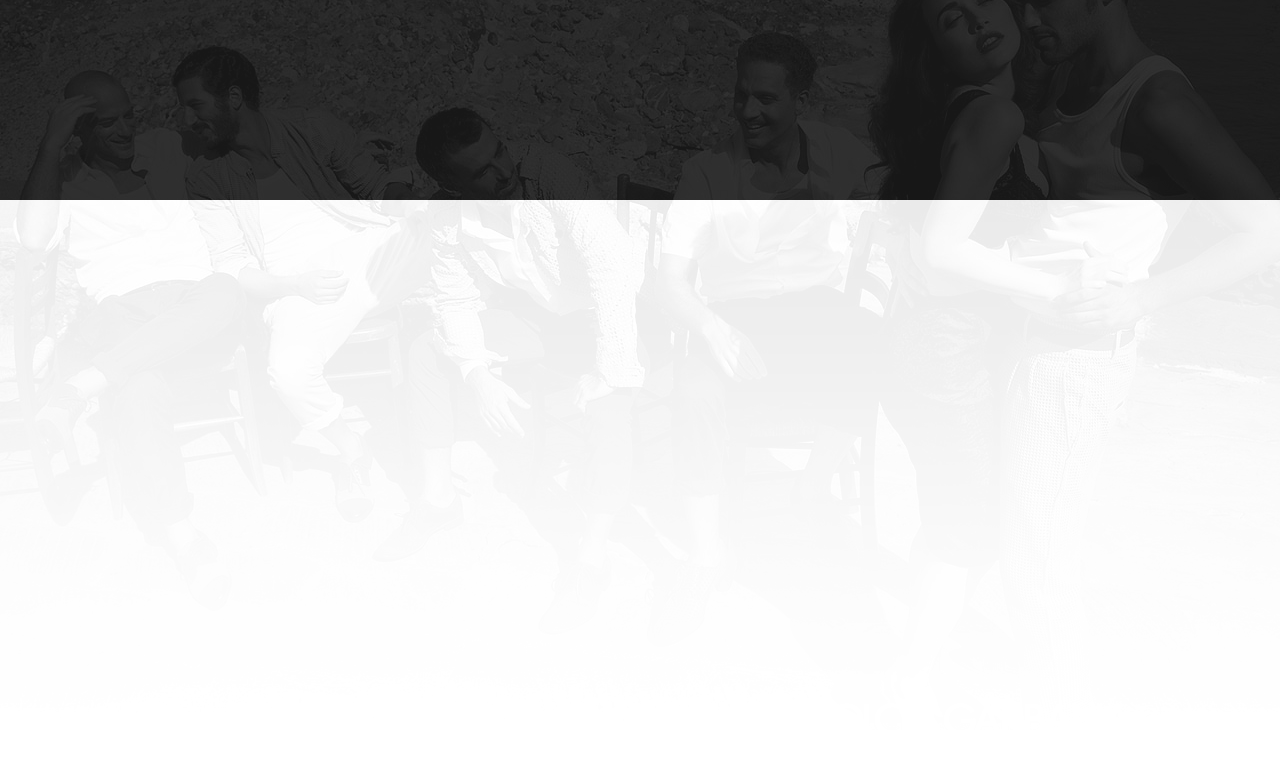
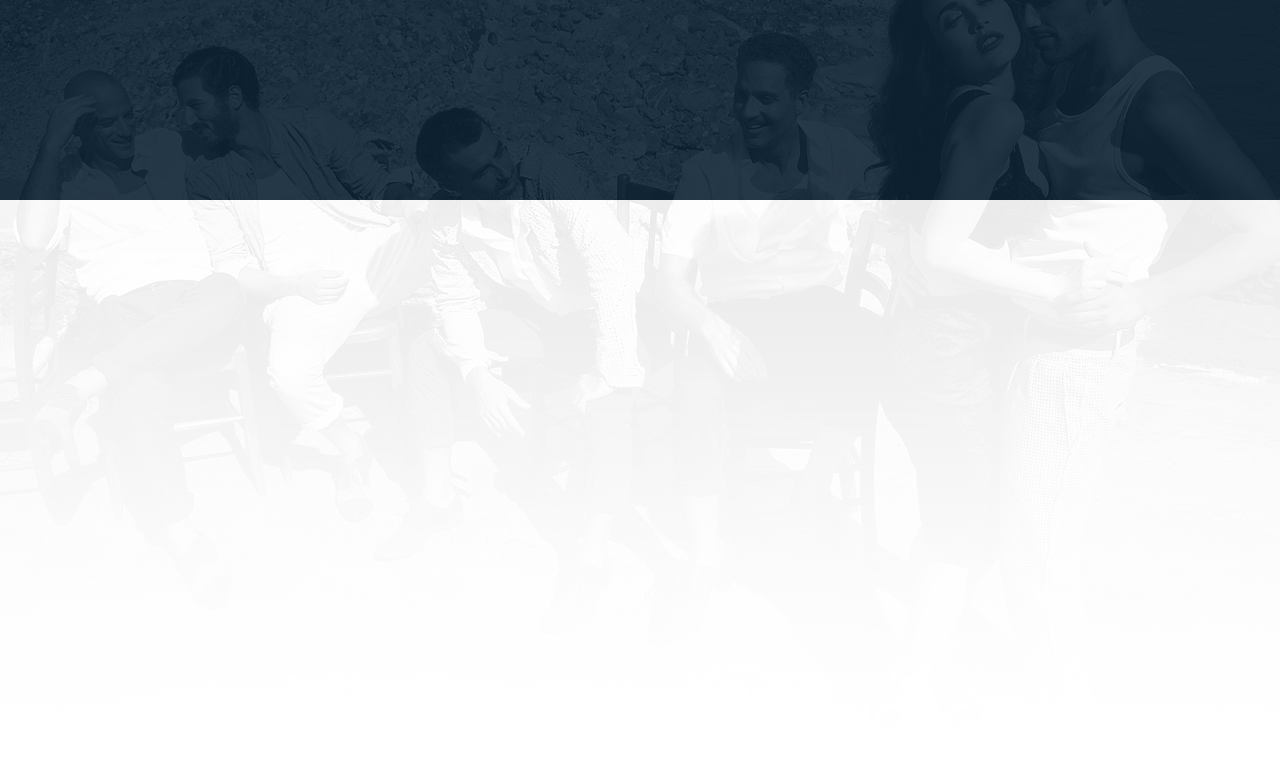
More colour changes

diff --git a/wp-content/themes/dante-child/style.css b/wp-content/themes/dante-child/style.css
@@ -81,7 +81,7 @@ h3 {
 	text-align: center; font-family: proxregular, "Helvetica Neue", Arial, Helvetica, Geneva, sans-serif ; letter-spacing: 1px !important; font-size: 14px !important; line-height: 22px !important; text-transform: uppercase;
 }
 
-p{ font-size:16px; letter-spacing:1px; margin-bottom:16px;text-align:center;}
+p{ font-size:16px; letter-spacing:1px; margin-bottom:16px;}
 
 
 .no-borders { border: none !important;}
@@ -277,7 +277,7 @@ color: #b08536 !important;
 .carousel-wrap > a:hover, #mobile-menu ul li:hover > a{
 	color: #b08536 !important;
 }
-#mobile-menu-wrap{ background-color:#111 !important;}
+#mobile-menu-wrap{ background-color:#0e2334 !important;}
 
 a.sf-button{ border-radius: 0 !important; padding:18px 40px 16px 40px; border:1px solid #fff !important; min-width:250px; margin-top:50px;}
 a.sf-button:hover{ background-color: #fff !important;}
@@ -288,12 +288,12 @@ a.sf-button:hover span{ color: #b08536 !important;transition: all 0.2s ease-in-o
 a.sf-button span{ font-size:16pt !important; letter-spacing:3px;}
 a.sf-button.transparent{  border:1px solid #666 !important;}
 a.sf-button.transparent:hover{ background-color: transparent !important;}
-.fa-facebook.sf-icon.sf-icon-medium { font-size:34px !important; width: auto;height: auto; color:#000; }
-.fa-twitter.sf-icon.sf-icon-medium { font-size:34px !important; width: auto;height: auto;  color:#000;}
-.fa-instagram.sf-icon.sf-icon-medium { font-size:34px !important; width: auto;height: auto; color:#000; }
-.fa-pinterest.sf-icon.sf-icon-medium { font-size:34px !important; width: auto;height: auto;  color:#000;}
+.fa-facebook.sf-icon.sf-icon-medium { font-size:34px !important; width: auto;height: auto; color:#0e2334; }
+.fa-twitter.sf-icon.sf-icon-medium { font-size:34px !important; width: auto;height: auto;  color:#0e2334;}
+.fa-instagram.sf-icon.sf-icon-medium { font-size:34px !important; width: auto;height: auto; color:#0e2334; }
+.fa-pinterest.sf-icon.sf-icon-medium { font-size:34px !important; width: auto;height: auto;  color:#0e2334;}
 .sf-icon-cont {
-border-color: #999 !important;
+border-color: #0e2334 !important;
 border-radius: 0 !important;
 padding: 5px !important;
 }
@@ -494,13 +494,19 @@ a.sf-button.gold {
 background-color: #b08536 !important; border: none !important;
 }
 a.sf-button.gold:hover {
-background-color: #000 !important; 
+background-color: #fff !important; 
+}
+
+a.sf-button.blue {
+background-color: #0e2334 !important; border: none !important; color: #fff !important; margin:10px 30px 10px 30px;
+}
+a.sf-button.blue:hover {
+background-color: #fff !important; 
 }
 
 .area_grey{background-color: #f6f7f6;border-top: 1px solid #d1d1d1;border-bottom: 1px solid #d1d1d1;}
-.area_gold{ background-color:rgba(242, 133, 0, 0.60); padding-top:25px; padding-bottom:25px; border-top:1px solid #e1a35a !important; margin-bottom:0 !important; margin-top:0 !important; border-bottom:none;}
-.area_gold a.sf-button{ border-color: #222 !important; margin:10px 30px 10px 30px; color:#fff;}
-.area_gold a.sf-button:hover{ border-color: #222 !important; background-color:#222 !important; }
+.area_gold{ background-color:rgba(163, 106, 0, 0.8); padding-top:25px; padding-bottom:25px; border-top:1px solid #e1a35a !important; margin-bottom:0 !important; margin-top:0 !important; border-bottom:none;}
+
 img.line{ margin-top:20px;}
 
 h2 {
@@ -688,7 +694,7 @@ background:url(images/mobile_nav_icon.png) no-repeat 0 0;
 background:url(images/mobile_nav_icon.png) no-repeat -42px 0;
 }
 .home_page #copyright{  border-top: none !important;}
-.home_page .page_bottom_bg{position:absolute; bottom:0; background: url(images/mainpage_bottom_bg_gradient.gif) repeat-x; background-position:bottom; height: 806px; width:100%;}
+.home_page .page_bottom_bg{ display:none; position:absolute; bottom:0; background: url(images/mainpage_bottom_bg_gradient.gif) repeat-x; background-position:bottom; height: 806px; width:100%;}
 .home_page .key-info {
 width: 90%;
 max-width: 450px;
@@ -719,7 +725,9 @@ color:#fff !important;
 	max-width:700px;
 	margin: auto;
 }
-
+.home_page .area3{
+	margin-top: -160px;
+}
 
 
 /* --------------------------------------------
@@ -729,6 +737,10 @@ color:#fff !important;
 .pricing_page .inner-page-wrap {
 margin-top: 0px;}
 
+.pricing_page  .area3 p{max-width: 550px; margin: auto; }
+.pricing_page  .area5 p{max-width: 550px; margin: auto; }
+.pricing_page  .area7 { margin-bottom: 0 !important;}
+.pricing_page  .area7 p{max-width: 550px; margin: auto;}
 
 
 /* --------------------------------------------
@@ -743,7 +755,9 @@ margin-top: 0px;}
 .how_it_works_page  .area2_right p img.line{ margin-top:30px ; }
 .how_it_works_page  .area4_right p img.line{ margin-top:30px ; }
 .how_it_works_page .area5{ padding-top:100px !important; padding-bottom:100px !important; }
+.how_it_works_page .area5 .spb_content_wrapper{ max-width: 500px;}
 .how_it_works_page .area6{ padding-top:50px !important; padding-bottom:50px !important; }
+.how_it_works_page .area6 p{max-width: 550px; margin: auto; }
 	
 .how_it_works_page .inner-page-wrap{
 	margin-top: 0 !important; margin-bottom:0 !important;}
@@ -754,7 +768,11 @@ margin-top: 0px;}
 
 .how_it_works_page p img.line{ margin-top:0px; }
 
+@media only screen and (max-width: 767px) {
+	.how_it_works_page p{ text-align: center !important;  }
+	.how_it_works_page h2{ text-align: center !important;  }
 
+} 
 
 /* --------------------------------------------
 	PROFILE DETAILS

diff --git a/wp-content/themes/dante-child/andy_style.css b/wp-content/themes/dante-child/andy_style.css
@@ -426,9 +426,9 @@ sans-serif;
 	height: 55px;
 	position: relative;
 	display: inline-block;
-	border: 3px solid #000000;
+	border: 3px solid #0e2334 ;
 	margin: 25px;
-	background-color: #000000;
+	background-color: #0e2334 ;
 	font: 18px proxbold, "Helvetica Neue", Arial, Helvetica, Geneva, sans-serif;
 	color: #fff;
 	text-transform: uppercase;
@@ -442,9 +442,9 @@ sans-serif;
 	height: 55px;
 	position: relative;
 	display: inline-block;
-	border: 3px solid #000000;
+	border: 3px solid #0e2334;
 	margin: 10px 0 10px 0;
-	background-color: #000000;
+	background-color: #0e2334 ;
 	font: 18px proxbold, "Helvetica Neue", Arial, Helvetica, Geneva, sans-serif;
 	color: #fff;
 	text-transform: uppercase;
@@ -454,7 +454,7 @@ sans-serif;
 }
 
 .button1:hover, .button2:hover, .button3:hover, .button4:hover{
-	color:#f7b666;
+	color:#b08536;
 
 }
 
@@ -538,7 +538,7 @@ sans-serif;
 .product-info h3{
 	font: 16px/22px proxbold, "Helvetica Neue", Arial, Helvetica, 
 	Geneva, sans-serif;
-	color: #f7b666;
+	color: #b08536;
 	text-transform: uppercase;
 	letter-spacing: 3px;
 	margin-bottom: 10px;
@@ -598,7 +598,7 @@ sans-serif;
   height: 125px;
   font: 26px/46px Georgia, "Times New Roman", Times, serif;
   font-style: italic;
-  background-color: #f7b666;
+  background-color: #b08536;
   text-align: center;
   position: relative;
   margin: -50px auto -60px auto;
@@ -681,7 +681,7 @@ details-menu li span:last-child{
 }
 
 .details-menu li span.active {
-	border-bottom: 6px solid #f7b666;
+	border-bottom: 6px solid #b08536;
 }
  
 .styles-block{
@@ -723,7 +723,7 @@ details-menu li span:last-child{
 	font: 80px proxbold, "Helvetica Neue", Arial, Helvetica, Geneva, 
 	sans-serif;
 	text-align: center;
-	color:#f7b666;
+	color:#b08536;
 	top:55px ;
 	width: 30%;
 	z-index: 0;
@@ -1053,7 +1053,7 @@ details-menu li span:last-child{
 	height: 8px;
 	margin: 0 auto;
 	display: block;
-	background-color: #f7b666;
+	background-color: #b08536;
 	position: relative;
 	top: 8px;
 	margin-top: -8px;
@@ -3264,7 +3264,7 @@ input.other:-moz-placeholder , value {
 	font: 80px proxbold, "Helvetica Neue", Arial, Helvetica, Geneva, 
 	sans-serif;
 	text-align: left;
-	color:#f7b666;
+	color:#b08536;
 	top:20px ;
 	left: 60px;
 	opacity: 1;
@@ -3443,7 +3443,7 @@ generic-menu li a:last-child{
 }
  
 .generic-menu li a:hover{
-	border-bottom: 6px solid #f7b666;
+	border-bottom: 6px solid #b08536;
 } 
 
 .generic-menu li a:active{
@@ -3527,7 +3527,7 @@ generic-menu2 li a:last-child{
 }
  
 .generic-menu2 li a:hover{
-	border-bottom: 6px solid #f7b666;
+	border-bottom: 6px solid #b08536;
 } 
 
 .generic-menu2 li a:active{
